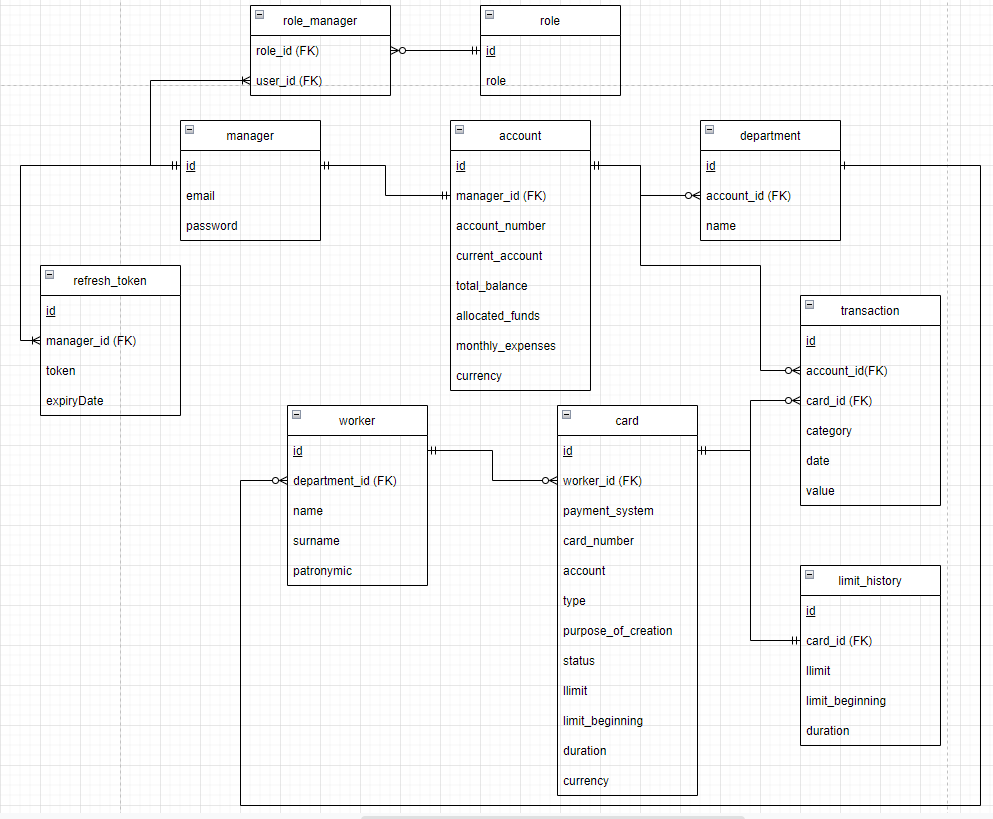
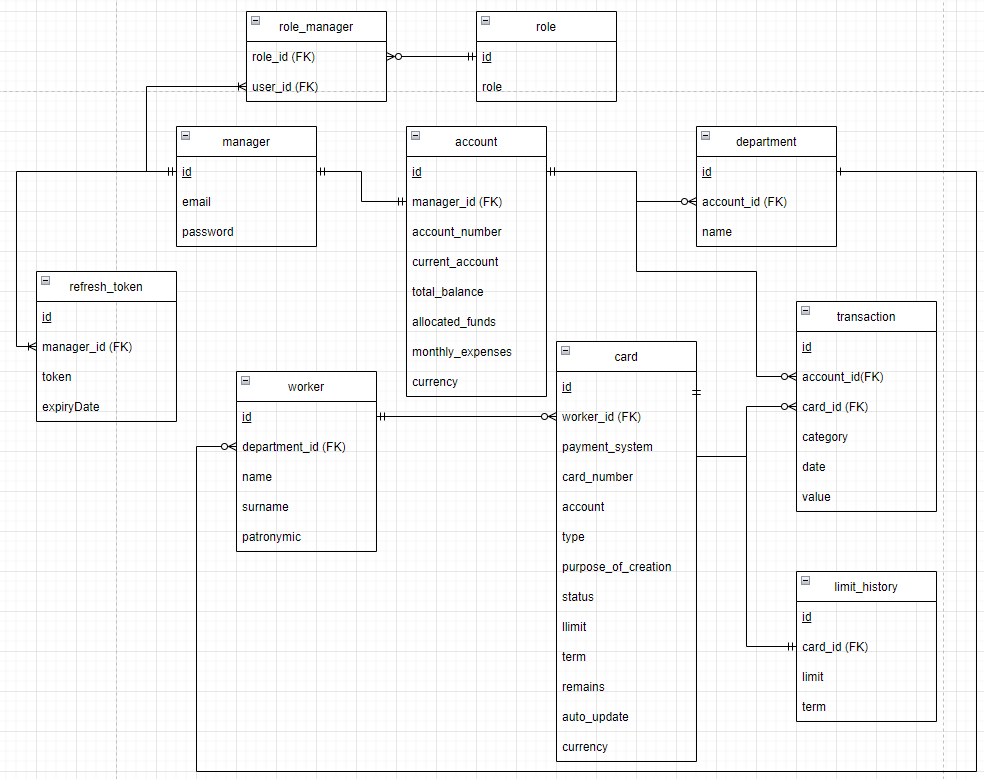
Created Scheduled for Limit

diff --git a/src/main/java/com/example/securityframe/Scheduled/ReductionOfTheTerm.java b/src/main/java/com/example/securityframe/Scheduled/ReductionOfTheTerm.java
@@ -1,36 +1,40 @@
-package com.example.securityframe.DAO;
+package com.example.securityframe.Scheduled;
 
-import com.example.securityframe.Entity.LimitHistory;
+import com.example.securityframe.Entity.Card;
+import com.example.securityframe.Service.CardService;
+import org.springframework.beans.factory.annotation.Autowired;
 import org.springframework.beans.factory.annotation.Value;
+import org.springframework.scheduling.annotation.Scheduled;
 import org.springframework.stereotype.Component;
 
-import java.sql.Connection;
-import java.sql.DriverManager;
-import java.sql.PreparedStatement;
-import java.sql.SQLException;
+import java.sql.*;
+import java.util.ArrayList;
+import java.util.List;
 
 @Component
-public class LimitHistoryDAO {
+public class ReductionOfTheTerm {
 
     @Value("${spring.datasource.url}")
-    String db_url;
+    private String db_url;
     @Value("${spring.datasource.username}")
-    String db_name;
+    private String db_name;
     @Value("${spring.datasource.password}")
-    String db_pass;
+    private String db_pass;
 
+    @Scheduled(cron = "*/10 * * * * *")
+    public void reductionOfTheTerm(){
+        decrementTerm();
+        autoUpdateOfLimit();
+    }
 
-    public void add(LimitHistory limitHistory) {
-        String sql = "insert into limit_history (card_id, \"limit\", term) values (?, ?, ?)";
+    private void decrementTerm() {
+        String sql = "update card set term = term -1 where term > 0";
 
         Connection con = null;
         PreparedStatement ps = null;
         try {
             con = DriverManager.getConnection(db_url, db_name, db_pass);
             ps = con.prepareStatement(sql);
-            ps.setLong(1, limitHistory.getCard_id());
-            ps.setLong(2, limitHistory.getLimit());
-            ps.setLong(3, limitHistory.getTerm());
             ps.execute();
         } catch (SQLException throwable) {
             throwable.printStackTrace();
@@ -46,15 +50,19 @@ public class LimitHistoryDAO {
         }
     }
 
-    public void deleteByCardId(Long card_id) {
-        String sql = "delete from limit_history where card_id = ?";
+    private void autoUpdateOfLimit(){
+        String sql = "update card " +
+                "set " +
+                    "term = (select limit_history.term from limit_history where card_id = card.id), " +
+                    "remains = (select limit_history.\"limit\" from limit_history where card_id = card.id), " +
+                    "\"limit\" = (select limit_history.\"limit\" from limit_history where card_id = card.id) " +
+                "where term = 0 and auto_update = true";
 
         Connection con = null;
         PreparedStatement ps = null;
         try {
             con = DriverManager.getConnection(db_url, db_name, db_pass);
             ps = con.prepareStatement(sql);
-            ps.setLong(1, card_id);
             ps.execute();
         } catch (SQLException throwable) {
             throwable.printStackTrace();
@@ -69,4 +77,5 @@ public class LimitHistoryDAO {
             }
         }
     }
+
 }

diff --git a/src/main/java/com/example/securityframe/DAO/CardDAO.java b/src/main/java/com/example/securityframe/DAO/CardDAO.java
@@ -253,4 +253,74 @@ public class CardDAO {
         }
     }
 
+    public void updateLimitById(Long card_id, Long limit, Long term, Boolean autoUpdate) {
+        String sql = "update card set \"limit\" = ?, term = ?, auto_update = ?, remains = ? where id = ?";
+
+        Connection con = null;
+        PreparedStatement ps = null;
+        try {
+            con = DriverManager.getConnection(db_url, db_name, db_pass);
+            ps = con.prepareStatement(sql);
+            ps.setLong(1, limit);
+            ps.setLong(2, term);
+            ps.setBoolean(3, autoUpdate);
+            ps.setLong(4, limit);
+            ps.setLong(5, card_id);
+            ps.execute();
+        } catch (SQLException throwable) {
+            throwable.printStackTrace();
+        }finally {
+            try {
+                if(con != null)
+                    con.close();
+                if(ps != null)
+                    ps.close();
+            } catch (SQLException throwables) {
+                throwables.printStackTrace();
+            }
+        }
+    }
+
+    public List<Card> findAll() {
+        String sql = "select * from card";
+
+        Connection con = null;
+        PreparedStatement ps = null;
+        try {
+            con = DriverManager.getConnection(db_url, db_name, db_pass);
+            ps = con.prepareStatement(sql);
+            ResultSet r = ps.executeQuery();
+            List<Card> list = new ArrayList<>();
+            while (r.next()){
+                Card card = new Card();
+                card.setId(r.getLong("id"));
+                card.setWorker_id(r.getLong("worker_id"));
+                card.setPayment_system(r.getString("payment_system"));
+                card.setCard_number(r.getString("card_number"));
+                card.setAccount(r.getLong("account"));
+                card.setType(r.getString("type"));
+                card.setPurpose_of_creation(r.getString("purpose_of_creation"));
+                card.setStatus(r.getString("status"));
+                card.setLimit(r.getLong("limit"));
+                card.setTerm(r.getLong("term"));
+                card.setRemains(r.getLong("remains"));
+                card.setAutoUpdate(r.getBoolean("auto_update"));
+                card.setCurrency(r.getString("currency"));
+                list.add(card);
+            }
+            return list;
+        } catch (SQLException throwable) {
+            throwable.printStackTrace();
+        }finally {
+            try {
+                if(con != null)
+                    con.close();
+                if(ps != null)
+                    ps.close();
+            } catch (SQLException throwables) {
+                throwables.printStackTrace();
+            }
+        }
+        return null;
+    }
 }

diff --git a/src/main/java/com/example/securityframe/Service/CardService.java b/src/main/java/com/example/securityframe/Service/CardService.java
@@ -24,6 +24,8 @@ public class CardService {
     private AccountService accountService;
     @Autowired
     private TransactionService transactionService;
+    @Autowired
+    private LimitHistoryService limitHistoryService;
 
     public void addCard(String body, HttpServletRequest request, HttpServletResponse response) {
         String id_worker = StaticMethods.parsingJson(body, "id_worker", request, response);
@@ -108,9 +110,17 @@ public class CardService {
         }
     }
 
-    public void setLimitOnCard(String card_id, Long limit, Long term, Boolean autoUpdate) {
+    public void setLimitOnCard(Long card_id, Long limit, Long term, Boolean autoUpdate) {
+
+        cardDAO.updateLimitById(card_id, limit, term, autoUpdate);
+        if(autoUpdate)
+            limitHistoryService.createLimitHistory(card_id, limit, term);
 
 
 
+    }
+
+    public List<Card> findAll() {
+        return cardDAO.findAll();
     }
 }

diff --git a/src/main/java/com/example/securityframe/Service/LimitHistoryService.java b/src/main/java/com/example/securityframe/Service/LimitHistoryService.java
@@ -1,6 +1,7 @@
 package com.example.securityframe.Service;
 
 import com.example.securityframe.DAO.LimitHistoryDAO;
+import com.example.securityframe.Entity.LimitHistory;
 import org.springframework.beans.factory.annotation.Autowired;
 import org.springframework.stereotype.Service;
 
@@ -8,8 +9,15 @@ import org.springframework.stereotype.Service;
 public class LimitHistoryService {
 
     @Autowired
-    LimitHistoryDAO limitHistoryDAO;
+    private LimitHistoryDAO limitHistoryDAO;
 
 
-
+    public void createLimitHistory(Long card_id, Long limit, Long term) {
+        LimitHistory limitHistory = new LimitHistory();
+        limitHistory.setCard_id(card_id);
+        limitHistory.setLimit(limit);
+        limitHistory.setTerm(term);
+        limitHistoryDAO.deleteByCardId(card_id);
+        limitHistoryDAO.add(limitHistory);
+    }
 }

diff --git a/src/main/java/com/example/securityframe/Entity/LimitHistory.java b/src/main/java/com/example/securityframe/Entity/LimitHistory.java
@@ -20,10 +20,4 @@ public class LimitHistory {
     @ApiModelProperty(notes = "Срок, на который ограничиваются расходы (в днях)", name = "term", example = "20")
     private Long term;
 
-    @ApiModelProperty(notes = "Остаток, который можно потратить", name = "remains", example = "12740")
-    private Long remains;
-
-    @ApiModelProperty(notes = "Автообновление по истичению :limit", name = "autoUpdate", example = "true")
-    private Boolean autoUpdate;
-
 }

diff --git a/src/main/java/com/example/securityframe/Controller/WorkerController.java b/src/main/java/com/example/securityframe/Controller/WorkerController.java
@@ -124,7 +124,7 @@ public class WorkerController {
     @ApiOperation(value = "Установка финансового лимита на карту")
     @PutMapping("/setLimitOnCard")
     public void setLimitOnCard(
-            @RequestParam("card_id") String card_id,
+            @RequestParam("card_id") Long card_id,
             @RequestParam("limit") Long limit,
             @RequestParam("term") Long term,
             @RequestParam("autoUpdate") Boolean autoUpdate,

diff --git a/src/main/java/com/example/securityframe/SecurityFrameApplication.java b/src/main/java/com/example/securityframe/SecurityFrameApplication.java
@@ -2,8 +2,10 @@ package com.example.securityframe;
 
 import org.springframework.boot.SpringApplication;
 import org.springframework.boot.autoconfigure.SpringBootApplication;
+import org.springframework.scheduling.annotation.EnableScheduling;
 
 @SpringBootApplication
+@EnableScheduling
 public class SecurityFrameApplication {
 
     public static void main(String[] args) {
